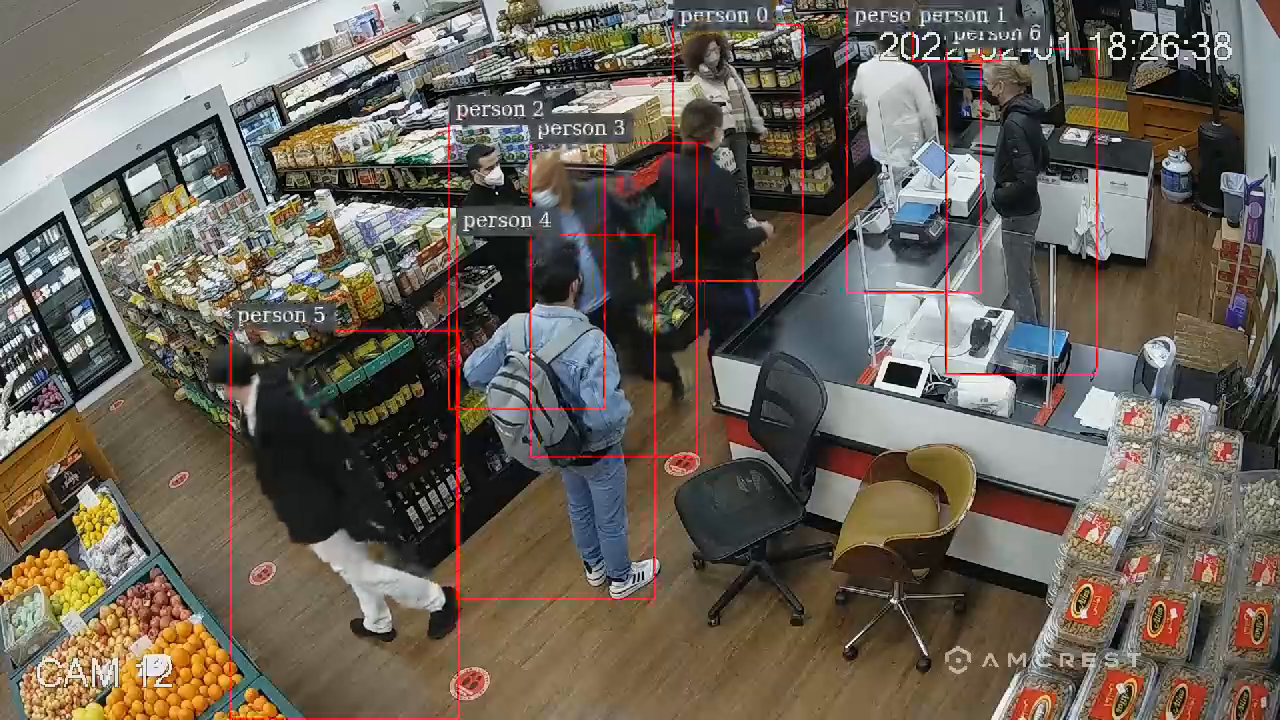
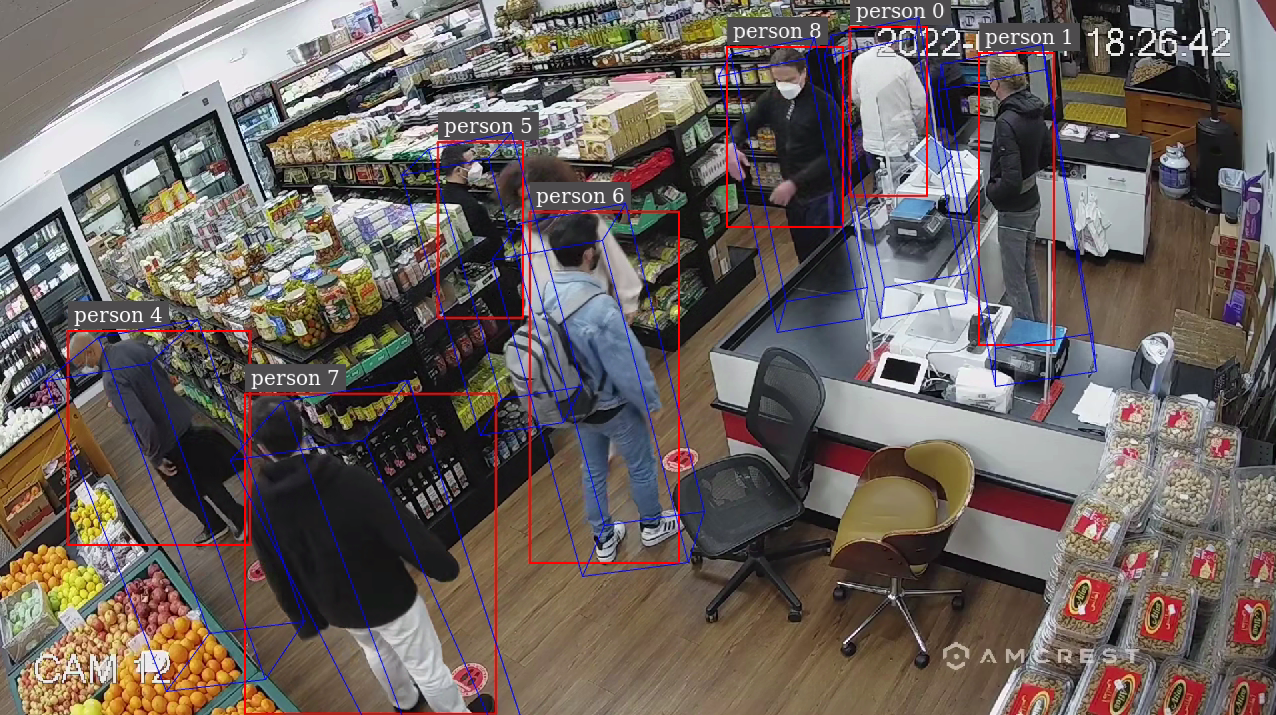
Add MaskTracker and upgrade SV3DT to DS 8.0

diff --git a/deepstream-masktracker/README.md b/deepstream-masktracker/README.md
@@ -1,0 +1,101 @@
+#  MaskTracker in DeepStream
+
+Note: We are using internal DS docker image and GitLab links for review. For DS 8.0 release, the docker image will be published to NGC, and GitLab repos will be published to GitHub. We will replace all the internal links with public links.
+
+## Introduction
+This sample application demonstrates using MaskTracker with DeepStream SDK. MaskTracker simultaneously performs multi-object tracking and segmentation using advanced vision foundation models such as Segment Anything Model 2 (SAM2). It uses SAM2 to visually track and segment targets across frames, while automatically adding and removing targets as needed. It stores visual features in previous frames in a memory bank and use them to localize targets in a new frame.  For algorithm and setup details, please refer to [DeepStream MaskTracker Documentation](https://deepstreamsdk.gitlab-master-pages.nvidia.com/docs-template/text/DS_plugin_gst-nvtracker.html#masktracker-developer-preview).
+
+## Prerequisites
+Users need to install Ubuntu 24.04 and NVIDIA driver 570.133.20 on x86 with dGPUs supported by DeepStream. Jetson devices may not support running the entire SAM2 network due to resource limitation. Check [here](https://deepstreamsdk.gitlab-master-pages.nvidia.com/docs-template/text/DS_docker_containers.html#prerequisites) for DeepStream container setup.
+1. Download the latest DeepStream container image from NGC (e.g., DS 8.0 in the example below)
+    ```bash
+    export DS_IMG_NAME="nvcr.io/nvidia/deepstream:8.0-triton-multiarch"
+    docker pull $DS_IMG_NAME
+    ```
+
+2. Git clone `deepstream_tools` and the current `deepstream_reference_apps` repository to the host machine, and enter MaskTracker directory inside the repository. `deepstream_tools` contains a directory `sam2-onnx-tensorrt`, which will be used to convert SAM2 models for TensorRT inference later.
+    ```bash
+    # Clone both repositories into one folder
+    git clone https://github.com/NVIDIA-AI-IOT/deepstream_tools.git
+    git clone https://github.com/NVIDIA-AI-IOT/deepstream_reference_apps.git
+    cd deepstream_reference_apps/deepstream-masktracker
+    ```
+
+3. Download NVIDIA pretrained `PeopleNet` for detection from [NGC](https://catalog.ngc.nvidia.com/orgs/nvidia/teams/tao/models/peoplenet/files?version=deployable_quantized_onnx_v2.6.3(e.g., PeopleNet v2.6.3 in the example below).
+
+    ```bash
+    # current directory: deepstream_reference_apps/deepstream-masktracker
+    mkdir -p models/PeopleNet
+    cd models/PeopleNet
+    wget --no-check-certificate --content-disposition https://api.ngc.nvidia.com/v2/models/nvidia/tao/peoplenet/versions/deployable_quantized_onnx_v2.6.3/zip -O peoplenet_deployable_quantized_onnx_v2.6.3.zip
+    unzip peoplenet_deployable_quantized_onnx_v2.6.3.zip
+    ```
+
+    The model files are now stored in `PeopleNet` directory as
+
+    ```bash
+    deepstream-masktracker
+    ├── configs
+    ├── streams
+    └── models
+        └── PeopleNet
+            ├── labels.txt
+            ├── resnet34_peoplenet.onnx
+            └── resnet34_peoplenet_int8.txt
+    ```
+## Running the Application
+
+Launch the container from current directory, and execute the MaskTracker pipeline inside the container. The current [config](configs/deepstream_app_source1.txt) requires users to run with a display because it uses EGL sink to visualize the overlay results. To run through ssh without display, please change `type=2` to `1` in group `[sink0]` in that file. Users can check [DeepStream sink group](https://docs.nvidia.com/metropolis/deepstream/dev-guide/text/DS_ref_app_deepstream.html#sink-group) for the usage of each sink.
+
+
+```bash
+cd ../..
+sudo xhost + # give container access to display
+# current directory: deepstream_reference_apps/deepstream-masktracker
+docker run --gpus all -it --rm --net=host --privileged -v /tmp/.X11-unix:/tmp/.X11-unix -v $(pwd):/opt/nvidia/deepstream/deepstream/sources/apps/sample_apps/deepstream-masktracker -v $(pwd)/../../deepstream_tools/sam2-onnx-tensorrt:/opt/nvidia/deepstream/deepstream/sources/tracker_ReID/sam2-onnx-tensorrt -v $(pwd)/../deepstream-tracker-3d/streams/Retail02_short.mp4:/opt/nvidia/deepstream/deepstream/sources/apps/sample_apps/deepstream-masktracker/streams/Retail02_short.mp4 -v $(pwd)/../3d-bodypose-deepstream/streams/bodypose.mp4:/opt/nvidia/deepstream/deepstream/sources/apps/sample_apps/deepstream-masktracker/streams/bodypose.mp4 -e DISPLAY=$DISPLAY $DS_IMG_NAME
+```
+
+Inside container, run the following commands. Please note that when `deepstream-app` is launched for the first time, it tries to create model engine files, which may take a couple minutes, depending on HW platforms.
+
+```bash
+# Install prerequisites
+cd /opt/nvidia/deepstream/deepstream/
+bash user_additional_install.sh
+
+# Download and convert SAM2 model
+export TRACKER_MODEL_DIR="/opt/nvidia/deepstream/deepstream/samples/models/Tracker"
+mkdir -p $TRACKER_MODEL_DIR
+cd /opt/nvidia/deepstream/deepstream/sources/tracker_ReID/sam2-onnx-tensorrt
+bash run.sh
+
+# Run MaskTracker pipeline
+cd /opt/nvidia/deepstream/deepstream/sources/apps/sample_apps/deepstream-masktracker/configs
+mkdir -p track_results
+deepstream-app -c deepstream_app_source1.txt
+```
+
+## Customizing the Video
+To run MaskTracker on other videos, in `deepstream_app_source1.txt`, change `uri=file://../streams/bodypose.mp4` to the new video name. For example, to use the retail video, set `uri=file://../streams/Retail02_short.mp4`.
+
+## Output Retrieval and Visualization
+
+### DeepStream Direct Visualization
+When the pipeline is launced, DeepStream shows the output video like below while processing the input video. Segmentation masks, bounding boxes and IDs are overlaid for each target. The result video is saved as `out.mp4`. Below shows sample video visualization.
+
+![sample MaskTracker results](figures/.bodypose_osd.gif)
+![sample MaskTracker results](figures/.retail_osd.gif)
+
+### Metadata Processing
+The KITTI results for boxes and IDs can be found in `track_results` folder. A file will be created for each frame in each stream, and the data format is defined below.
+
+| object Label | object Unique Id | blank | blank | blank | bbox left | bbox top | bbox right | bbox bottom | blank | blank | blank | blank | blank | blank | blank | confidence | visibility (N/A) | Foot Image Position X (N/A) | Foot Image Position Y (N/A) |
+|--------------|------------------|-------|-------|-------|-----------|----------|------------|-------------|-------|-------|-------|-------|-------|-------|-------|-----------|-----------------------|-----------------------|-----------------------|
+| string       | long unsigned    | float | int   | float | float     | float    | float      | float       | float | float | float | float | float | float | float | float     | float                 | float                 | float                 |
+
+Each frame is saved as `track_results/00_000_xxxxxx.txt`. Sample output of a frame is like below. Note visibility and foot position are not available for MaskTracker.
+```txt
+person 1 0.0 0 0.0 964.094116 263.143738 1177.927734 851.131775 0.0 0.0 0.0 0.0 0.0 0.0 0.0 0.980957
+person 2 0.0 0 0.0 1298.530762 234.894257 1637.269897 844.630981 0.0 0.0 0.0 0.0 0.0 0.0 0.0 0.966797
+person 0 0.0 0 0.0 614.902649 227.807709 911.121948 852.950439 0.0 0.0 0.0 0.0 0.0 0.0 0.0 0.981934
+...
+```

diff --git a/deepstream-tracker-3d/README.md b/deepstream-tracker-3d/README.md
@@ -3,6 +3,8 @@
 ## Introduction
 This sample application demonstrates the single-view 3D tracking with DeepStream SDK. Given the [camera matrix and human model](configs/camInfo.yml) of a static camera, this application estimates and keeps tracking of object states in the 3D physical world. It can recover the complete bounding box, foot location and body convex hulls precisely from partial occlusions. For algorithm and setup details, please refer to [DeepStream Single View 3D Tracking Documentation](https://docs.nvidia.com/metropolis/deepstream/dev-guide/text/DS_plugin_gst-nvtracker.html#single-view-3d-tracking-alpha).
 
+The currnet SV3DT configuration in this sample uses an 2D pose estimator, which estimates human key-points on the 2D image plane. The SV3DT algorithm uses height and waist key-points as anchor to precisely estimate each person's 3D human height. If setting `poseEstimatorType: 0` in `configs/config_tracker_NvDCF_accuracy_3D.yml`, pose estimator will be disabled, and the algorithm uses 2D detection bounding boxes and a human model with fixed height. It estimates the 3D location by matching the head with 2D bounding box's top edge.
+
 ## Prerequisites
 This sample application can be run on both x86 and Jetson platforms inside DeepStream container. Check [here](https://docs.nvidia.com/metropolis/deepstream/dev-guide/text/DS_docker_containers.html#prerequisites) for DeepStream container setup.
 1. Download the latest DeepStream container image from NGC (e.g., DS 8.0 in the example below)
@@ -17,14 +19,12 @@ This sample application can be run on both x86 and Jetson platforms inside DeepS
     cd deepstream_reference_apps/deepstream-tracker-3d
     ```
 
-3. Download NVIDIA pretrained `PeopleNet` for detection from [NGC](https://catalog.ngc.nvidia.com/orgs/nvidia/teams/tao/models/peoplenet/files?version=deployable_quantized_onnx_v2.6.3(e.g., PeopleNet v2.6.3 in the example below).
+3. Download NVIDIA pretrained [`PeopleNet`](https://catalog.ngc.nvidia.com/orgs/nvidia/teams/tao/models/peoplenet/files?version=deployable_quantized_onnx_v2.6.3) for 2D detection.
 
     ```bash
     # current directory: deepstream_reference_apps/deepstream-tracker-3d
     mkdir -p models/PeopleNet
-    cd models/PeopleNet
-    wget --no-check-certificate --content-disposition https://api.ngc.nvidia.com/v2/models/nvidia/tao/peoplenet/versions/deployable_quantized_onnx_v2.6.3/zip -O peoplenet_deployable_quantized_onnx_v2.6.3.zip
-    unzip peoplenet_deployable_quantized_onnx_v2.6.3.zip
+    cd models/PeopleNet; wget --no-check-certificate --content-disposition https://api.ngc.nvidia.com/v2/models/nvidia/tao/peoplenet/versions/deployable_quantized_onnx_v2.6.3/zip -O peoplenet_deployable_quantized_onnx_v2.6.3.zip; unzip peoplenet_deployable_quantized_onnx_v2.6.3.zip
     ```
 
     The model files are now stored in `PeopleNet` directory as
@@ -56,10 +56,11 @@ Inside container, run the following commands. Please note that when `deepstream-
 cd /opt/nvidia/deepstream/deepstream/
 bash user_additional_install.sh
 
-# Download ReID model
-export REID_DIR="/opt/nvidia/deepstream/deepstream/samples/models/Tracker"
-mkdir -p $REID_DIR
-wget 'https://api.ngc.nvidia.com/v2/models/nvidia/tao/reidentificationnet/versions/deployable_v1.0/files/resnet50_market1501.etlt' -P $REID_DIR
+# Download ReID and BodyPose3DNet model
+export MODEL_DIR="/opt/nvidia/deepstream/deepstream/samples/models/Tracker"
+mkdir -p $MODEL_DIR
+wget 'https://api.ngc.nvidia.com/v2/models/nvidia/tao/reidentificationnet/versions/deployable_v1.0/files/resnet50_market1501.etlt' -P $MODEL_DIR
+wget 'https://api.ngc.nvidia.com/v2/models/nvidia/tao/bodypose3dnet/versions/deployable_accuracy_onnx_1.0/files/bodypose3dnet_accuracy.onnx' -P $MODEL_DIR
 
 # Run 3D tracking pipeline
 cd /opt/nvidia/deepstream/deepstream/sources/apps/sample_apps/deepstream-tracker-3d/configs
@@ -70,7 +71,7 @@ deepstream-app -c deepstream_app_source1_3d_tracking.txt
 ## Output Retrival and Visualization
 
 ### DeepStream Direct Visualization
-When the pipeline is launced, DeepStream shows the output video like below while processing the input video. The bounding boxes are reprojected from 3D to 2D and correspond to full human body even though there are partial occlusions. The result video is saved as `out.mp4`.
+When the pipeline is launced, DeepStream shows the output video like below while processing the input video. The 3D bounding boxes of the people are reconstructed and plotted even though there are partial occlusions. The result video is saved as `out.mp4`.
 
 ![sample 3d tracking results](figures/.retail_osd.png)
 

diff --git a/README.md b/README.md
@@ -17,8 +17,11 @@ For further details, please see each project's README.
   ![sample anomaly output](anomaly/.opticalflow.png)
 ### Runtime Source Addition Deletion: [README](runtime_source_add_delete/README.md) ###
   The project demonstrates addition and deletion of video sources in a live Deepstream pipeline.
+### MaskTracker: [README](deepstream-masktracker/README.md) ###
+  This sample app demonstrates DeepStream MaskTracker for multi-object tracking and segmentation using SAM2.
+  ![sample MaskTracker output](deepstream-masktracker/figures/.retail_osd.gif)
 ### Single-View 3D Tracking: [README](deepstream-tracker-3d/README.md) ###
-  The sample demostrates usage of single-view 3D tracking with DeepStream nvtracker.
+  The sample app demonstrates single-view 3D tracking with DeepStream multi-object tracking to reconstruct 3D human model in world coordinates under occlusion.
   ![sample 3D tracking output](deepstream-tracker-3d/figures/.retail_viz.png)
 ### Parallel Multiple Models Inferencing: [README](deepstream_parallel_inference_app/README.md) ###
   The project demonstrate how to implement multiple models inferencing in parallel with DeepStream APIs.
